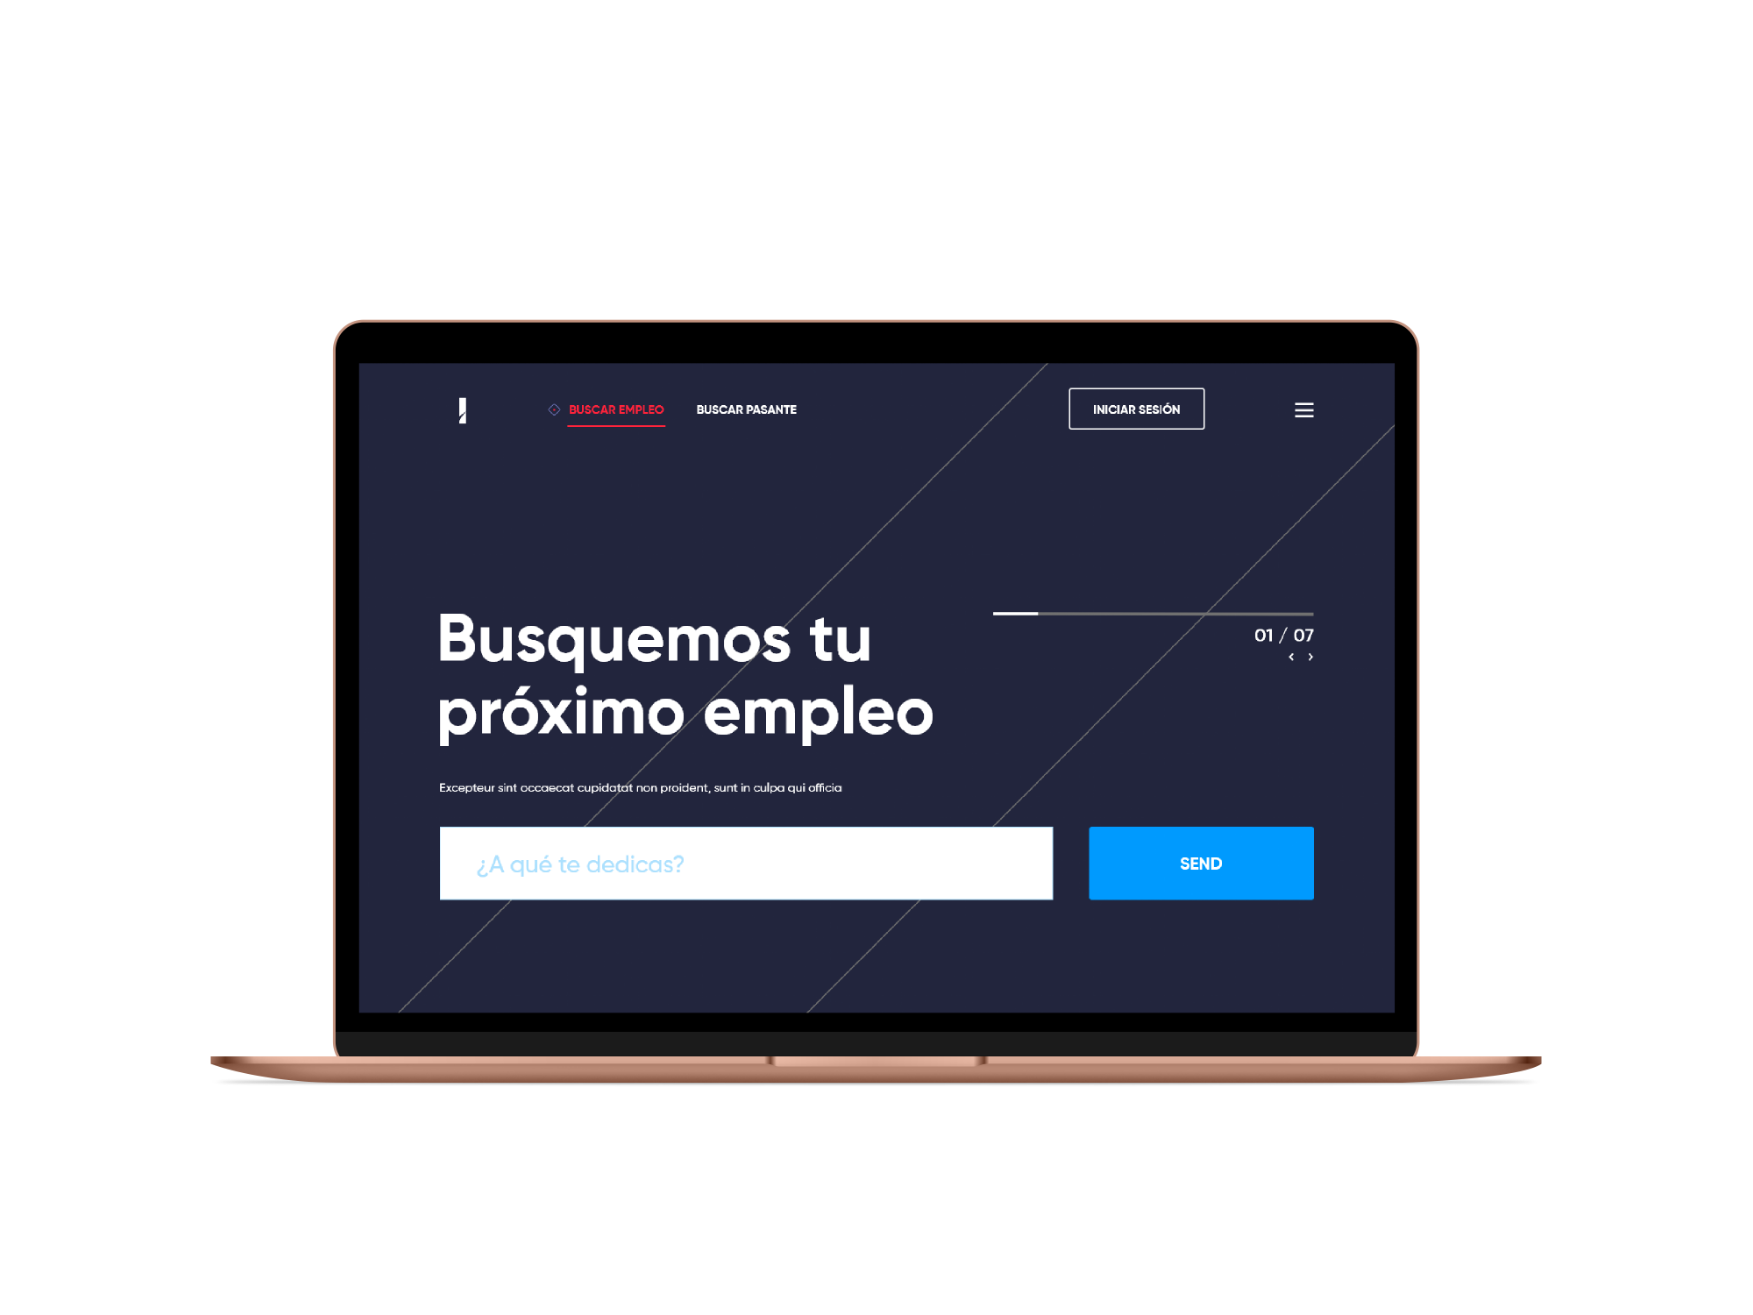
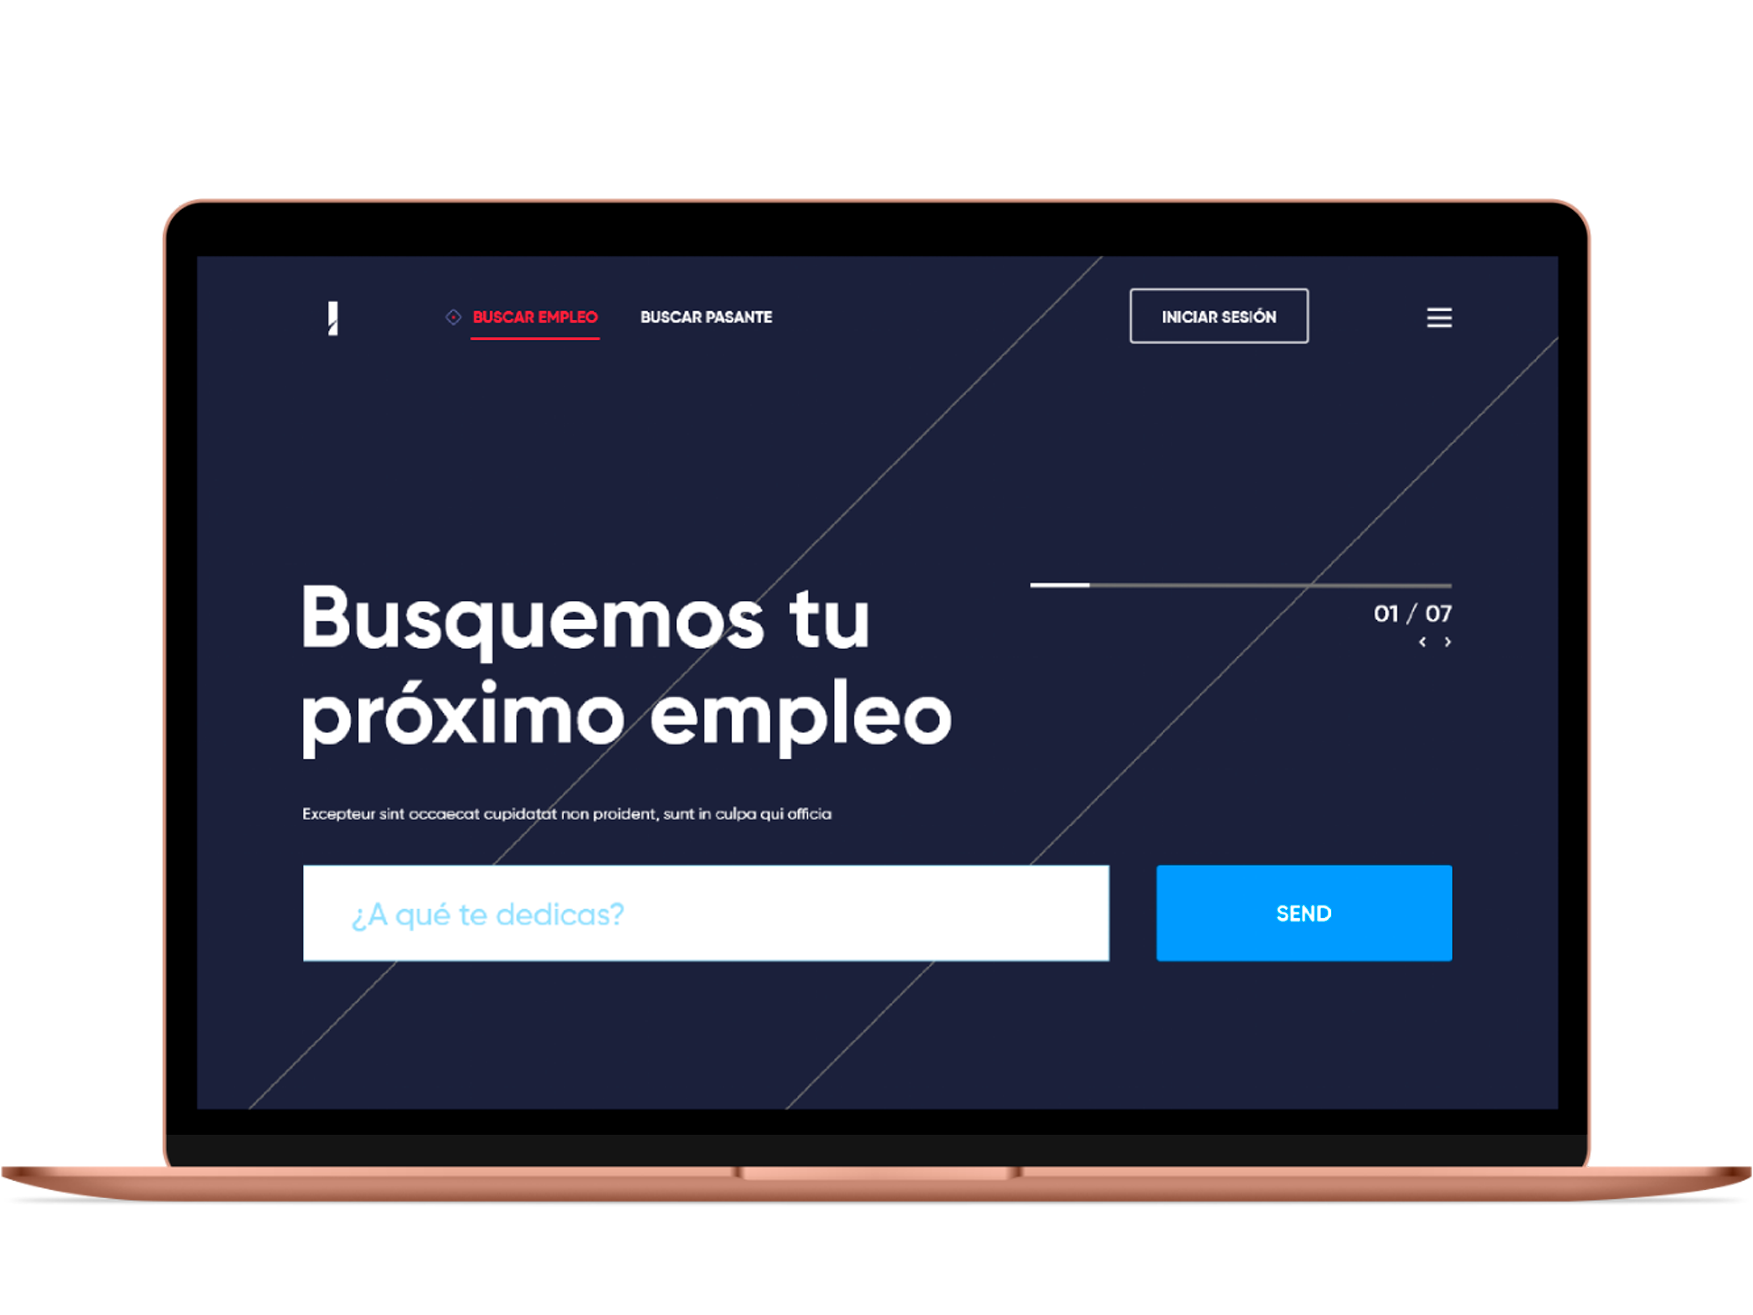
Major body and position update.

diff --git a/styles.css b/styles.css
@@ -4,6 +4,7 @@ body{
     background: black;
     font-family: 'Poppins', sans-serif;
     color: #fff;
+    overflow: hidden;
 }
 .banner{
     height: 100vh;
@@ -13,7 +14,7 @@ body{
     background:url('assets//background1.png');
     background-position: top;
     background-size: cover;
-    background-repeat: no-repeat;
+    /*background-repeat: no-repeat;*/
 }
 nav{
     margin-top: 0;
@@ -26,10 +27,18 @@ nav{
 }
 
 .nav_item{
-    padding-left: 10%;
+    padding-left: 6%;
 }
-
-
+.nav_item_2{
+    position: absolute;
+    left: 936px;
+    top: 27px;
+}
+.nav_item_3{
+    position: absolute;
+    left: 1140px;
+    top: 15px;
+}
 
 h1{
     padding-left: 8%;
@@ -64,43 +73,52 @@ h1{
 
 
 .info2{
-    margin-left: 14%;
+    margin-left: 20%;
+    margin-top: 1%;
+}
+.info3{
+    margin-left: 12%;
+    margin-top: 1.6%;
 }
 
 .banner .info{
-    margin-top: 10%;
+    margin-top: 15.5%;
+    margin-left: 14.5%;
     transform: translateY(-10%);
 }
 .banner .info h1{
-    font-size: 2.2em;
+    font-size: 3em;
     font-weight: 700;
     letter-spacing: 0px;
 }
 .banner .info2 p{
-    font-size: 1em;
-    font-weight: 300;
-    color: #aaa;
+    font-size: 1.2em;
+    font-weight: 500;
+    color: #282A3F;
     letter-spacing: 0px;
 }
-.banner .info2 a{
+.banner .info3 a{
     height: 100vh;
     width: 100%;
-    margin-left: 0%;
-    margin-bottom: 20%;
     background:url('assets//button_start.png');
-    padding: 10px 80px;
+    padding: 18px 120px;
     background-position: top;
     background-size: cover;
     background-repeat: no-repeat;
     border-radius: 40px;
 }
 
+.laptop{
+    position: relative;
+    top: -195px;
+    left: -96px;
+}
 .banner .laptop a{
     height: 100vh;
     width: 100%;
     margin-left: 0%;
-    background:url('assets//laptop.png');
-    padding: 300px 300px;
+    background:url('assets//laptop_cut.png');
+    padding: 470px 520px;
     font-size: 1em;
     background-position: top;
     background-size: cover;

diff --git a/index.html b/index.html
@@ -1,4 +1,4 @@
-<!doctype html>
+<!doctype html>
 <html lang="en">
   <head>
     <meta charset="utf-8">
@@ -20,11 +20,16 @@
 
       <nav class="col-md-8 offset-md-1 navbar sticky-top">
         <div class="navbar-brand nav_item">
-          <img src="assets//InterLab_logo.png" width="120" height="40" alt="">
+          <img src="assets//InterLab_logo.png" width="211" height="64" alt="">
         </div>
         <ul class="nav">
-          <li class="nav-item">
-            <img src="assets//icons.png" width="80" height="12" alt="">
+          <li class="nav_item_2">
+            <img src="assets//icons.png" width="104" height="16" alt="">
+          </li>
+        </ul>
+        <ul class="nav">
+          <li class="nav_item_3">
+            <img src="assets//try.png" width="180" height="49" alt="">
           </li>
         </ul>
       </nav>
@@ -32,14 +37,19 @@
 
         <div class="row">
           <div class="col-md-8 offset-md-1 info">
-            <h1 class="text-left text-dark" style="width: 35rem;">{{subtitle1}}</h1>
+            <h1 class="text-left text-dark" style="width: 40rem;">{{subtitle1}}</h1>
           </div>
         </div>
 
         <div class="row">
           <div class="col-md-8 offset-md-1 info2">
-            <p class="text-muted" style="width: 17rem;">{{text1}}</p>
-            <a href="" class="col-md-12 offset-md-2"></a>
+            <p class="text" style="width: 27rem;">{{text1}}<br>{{text2}}<br>{{text3}}</p>
+          </div>
+        </div>
+
+        <div class="row">
+          <div class="col-md-8 offset-md-1 info3">
+            <a href="" class="col-md-12 offset-md-2 info3"></a>
           </div>
         </div>
 

diff --git a/01.js b/01.js
@@ -6,7 +6,9 @@ const app = new Vue({
         background: 'bg-warning',
         color: true,
         subtitle1: 'Obtén ofertas de pasantías relevantes',
-        text1: 'Consigue pasantías de todo el mundo, que se ajusten a tus necesidades, con solo responder unas preguntas simples.'
+        text1: 'Consigue pasantías de todo el mundo,',
+        text2: 'que se ajusten a tus necesidades,',
+        text3: 'con solo responder unas preguntas simples.'
     },
     methods: {
 
